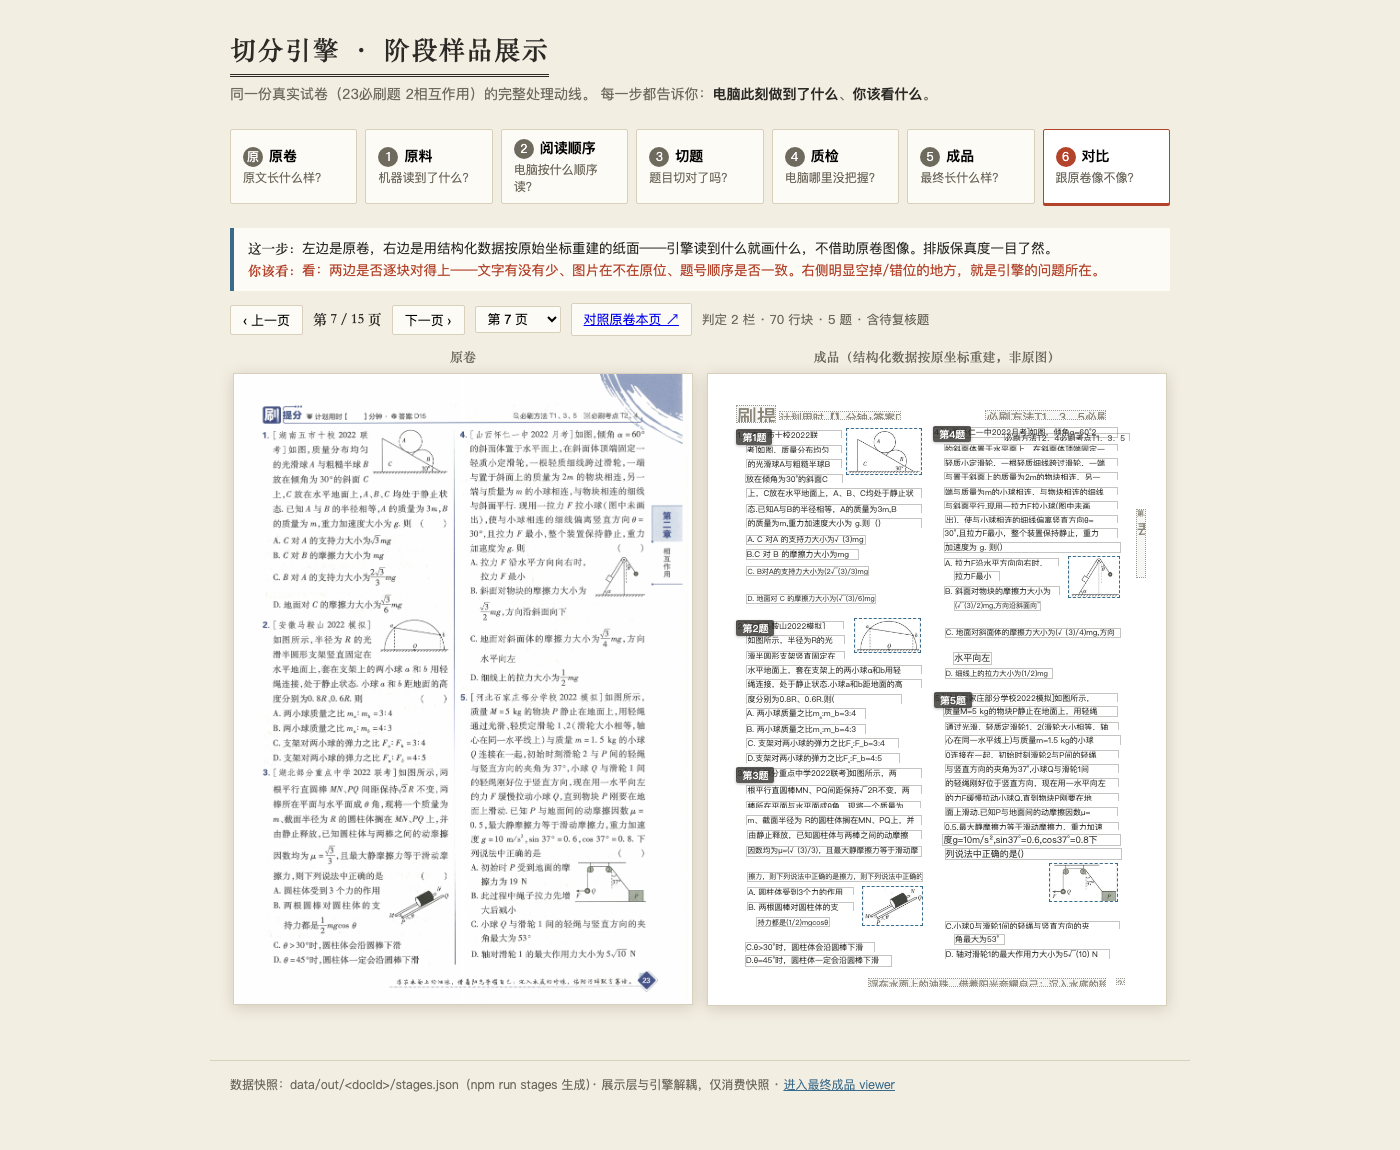
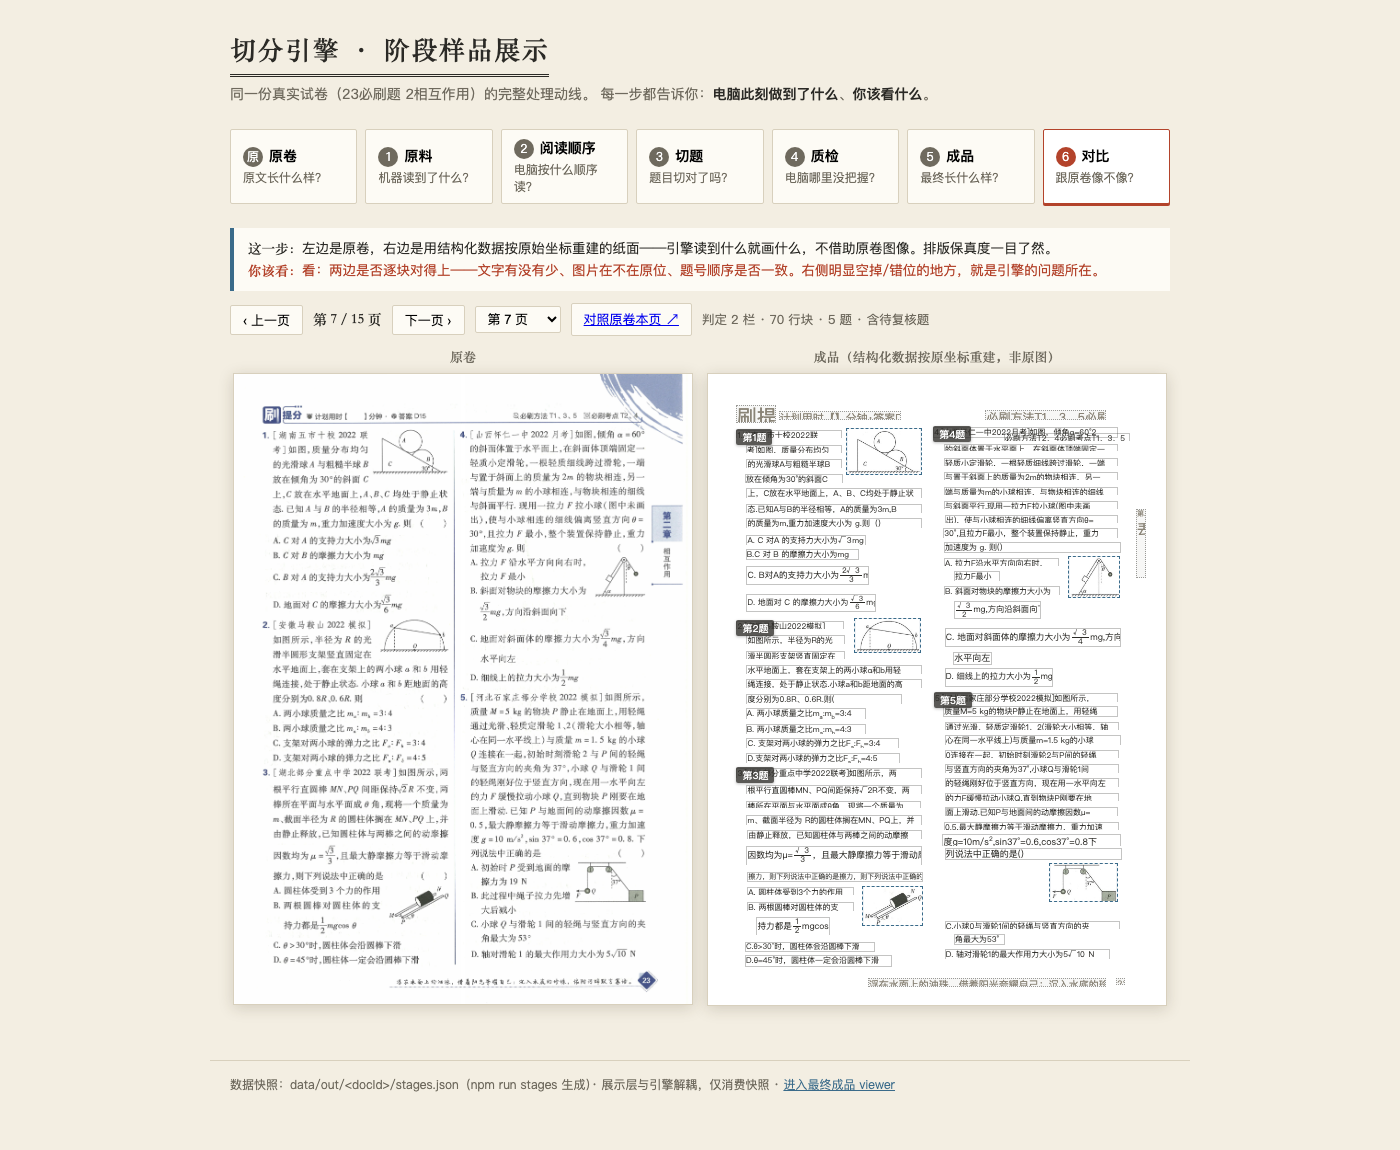
feat: 渲染输出改为 HTML 结构——\frac 竖排分式 / \sqrt 根号 / 上下标 <sup><sub>
用户指出"公式怎么都是一排的"。根因是渲染方式：此前是**纯文本 Unicode 替换**，
而 Unicode 没有"上下叠放"这种结构，\frac 只能降级成 (√(3)/2) —— 一维字符流
表达不了原卷的二维数学排版。

- latex-display.js 输出改为 HTML 片段：\frac → <span class="frac">（分子/分母上下
  叠放 + 中间横线）、\sqrt → <span class="sqrt">（带上划线）、^/_ → <sup>/<sub>
- 新增 escapeHtml：字面文本转义，避免 < > & 破坏结构（物理卷里 θ<90° 很常见）
- 公式内空白改为在 desugar 内部跳过（HTML 阶段折叠会破坏标签属性里的空格）
- stages.js 挂载方式 textContent → innerHTML（4 处）；字号估算前先 stripTags
- stages.css 新增 .frac / .sqrt / .rad / sup / sub 样式
- separateOptionMarks 移到渲染**之后**：desugar 会吃掉公式内空白（含选项之间的
  分隔空格），放在渲染前会让相邻选项重新粘连（实测 p3 raw[10] 回归）
- 测试 91/91（期望值改为 HTML，新增 HTML 转义用例）；审计 8 项归零
- 15 页对比截图 + 阶段 1 截图重拍核对

diff --git a/stages/latex-display.js b/stages/latex-display.js
@@ -1,5 +1,5 @@
 /**
- * latex-display.js —— 展示层专用 LaTeX→Unicode 轻量渲染（纯函数，无 DOM）。
+ * latex-display.js —— 展示层专用 LaTeX 渲染（纯函数，无 DOM）。
  *
  * 定位：引擎结构化文本保留上游 LaTeX 原样（红线：不静默改写数据）；
  * 但展示时 "$\theta \left( \theta < 9 0 ^ { \circ } \right)$" 这类源码不可读。
@@ -7,6 +7,12 @@
  * （\frac/\sqrt 嵌套参数、^/_ 嵌套上下标、{ } 分组、希腊字母/关系符表、
  * \left\right 与字体包装剥除、空白噪声折叠），语义改写（清洗数据本身）
  * 是引擎侧独立任务，不在此处。
+ *
+ * 输出是 **HTML 片段**（不是纯文本）：\frac 渲染成竖排分式、\sqrt 渲染成带上划线的
+ * 根号、上下标用 <sup>/<sub>。原卷是二维排版，一维字符流表达不了它
+ * （2026-10-08 用户指出"怎么都是一排的"）。⇒ 调用方必须用 **innerHTML** 挂载，
+ * 不能用 textContent；所有字面文本都经 escapeHtml，避免 < > & 破坏结构。
+ *
  * 供 stages.js 使用；tests/latex-display.test.ts 回归锁定
  * （测试用例全部取自真实样张噪声公式）。
  */
@@ -80,20 +86,9 @@ export const KNOWN_COMMANDS = new Set([
  */
 export const STRUCTURAL_COMMANDS = new Set([...DROP_CMD, ...DROP_WITH_ARG]);
 
-const SUP = {
-  "0": "⁰", "1": "¹", "2": "²", "3": "³", "4": "⁴",
-  "5": "⁵", "6": "⁶", "7": "⁷", "8": "⁸", "9": "⁹",
-  "+": "⁺", "-": "⁻", "−": "⁻", "n": "ⁿ", "i": "ⁱ",
-};
-
-const SUB = {
-  "0": "₀", "1": "₁", "2": "₂", "3": "₃", "4": "₄",
-  "5": "₅", "6": "₆", "7": "₇", "8": "₈", "9": "₉",
-  "+": "₊", "-": "₋", "a": "ₐ", "e": "ₑ", "o": "ₒ", "x": "ₓ",
-};
-
-const allMapped = (str, table) => [...str].every((ch) => ch in table);
-const mapAll = (str, table) => [...str].map((ch) => table[ch] ?? ch).join("");
+/** HTML 转义：输出片段由调用方 innerHTML 挂载，字面文本必须转义。 */
+const escapeHtml = (s) =>
+  s.replace(/[&<>]/g, (c) => (c === "&" ? "&amp;" : c === "<" ? "&lt;" : "&gt;"));
 
 const isSpace = (ch) => ch === " " || ch === "\t" || ch === "\n" || ch === "\r";
 
@@ -162,32 +157,33 @@ function parseCommand(s, i) {
 }
 
 /**
- * 递归渲染：{ } 分组不显示；\frac/\sqrt 嵌套解析；^/_ 上下标
- * （内容可映射时用 Unicode 上下标，否则保留 ^()/_() 形态）。
- * 空白不在此处折叠——由调用方决定（公式内折叠、段外保留）。
+ * 递归渲染成 HTML 片段。
+ * - { } 分组不显示；\frac → 竖排分式；\sqrt → 带上划线的根号；^/_ → <sup>/<sub>
+ * - 空白在公式内无语义，**一律跳过**（在 HTML 阶段折叠会破坏标签属性里的空格）
+ * - 字面字符逐个 escapeHtml
  */
 function desugar(s) {
   let out = "";
   let i = 0;
   while (i < s.length) {
     const ch = s[i];
+    if (isSpace(ch)) { i++; continue; } // 公式内空白无语义
     if (ch === "\\") {
       const cmd = parseCommand(s, i);
       const { name } = cmd;
       if (name === " ") {
-        out += " ";
         i = cmd.end;
         // 真实数据常见 "\ :" —— 空格命令后吞掉多余空格与标点短命令
         while (i < s.length && isSpace(s[i])) i++;
         if ([",", ";", ":", "!"].includes(s[i] ?? "")) i++;
         continue;
       }
-      if ([",", ";", ":", "!"].includes(name)) { out += " "; i = cmd.end; continue; }
+      if ([",", ";", ":", "!"].includes(name)) { i = cmd.end; continue; }
       if (name === "frac" || name === "dfrac" || name === "tfrac") {
         const a = parseArg(s, cmd.end);
         const b = a ? parseArg(s, a.end) : null;
         if (a && b) {
-          out += `(${desugar(a.text)}/${desugar(b.text)})`;
+          out += `<span class="frac"><span class="fn">${desugar(a.text)}</span><span class="fd">${desugar(b.text)}</span></span>`;
           i = b.end;
           continue;
         }
@@ -198,7 +194,7 @@ function desugar(s) {
       }
       if (name === "sqrt") {
         const a = parseArg(s, cmd.end);
-        if (a) { out += `√(${desugar(a.text)})`; i = a.end; continue; }
+        if (a) { out += `<span class="sqrt">√<span class="rad">${desugar(a.text)}</span></span>`; i = a.end; continue; }
       }
       if (UNWRAP.has(name)) {
         const a = parseArg(s, cmd.end);
@@ -214,7 +210,7 @@ function desugar(s) {
         continue;
       }
       // 未知命令：丢弃命令名本身，保留其参数内容——宁可少显示一处排版命令，
-      // 也绝不让 "\varepsilon" 这类命令名裸奔给用户看（旧实现的兜底就是裸名字）。
+      // 也绝不让 "\varepsilon" 这类命令名裸奔给用户看。
       i = cmd.end;
       continue;
     }
@@ -222,33 +218,24 @@ function desugar(s) {
       const a = parseArg(s, i + 1);
       if (a) {
         const inner = desugar(a.text).trim();
-        if (inner === "°") { out += "°"; i = a.end; continue; } // ^ { \circ } 特例
+        // ^ { \circ } → 度数符号直出（原卷就是 °，不是上标圆圈）
+        if (ch === "^" && inner === "°") { out += "°"; i = a.end; continue; }
         // MinerU 把上标数字 2 误认成正体冒号：原卷第 4 页第 1 题实为 Fsin²θ，
-        // 数据里却是 F \mathrm { s i n } ^ { \mathrm { : } } \theta → 还原为 ²。
+        // 数据里却是 F \mathrm { s i n } ^ { \mathrm { : } } \theta → 还原为 2。
         // ⚠ 曾把这类「纯标点上标」整体丢弃，导致平方消失（静默内容丢失）。
         // 纠正原则：宁可还原一个高概率候选，也不静默丢掉信息。
-        if (ch === "^" && inner === ":") { out += "²"; i = a.end; continue; }
-        const table = ch === "^" ? SUP : SUB;
-        if (allMapped(inner, table)) {
-          out += mapAll(inner, table);
-        } else if (inner.length > 0 && inner.length <= 2 && !/[A-Za-z0-9]/.test(inner)) {
-          // 其余符号型上/下标（′ ∘ ∗ 等）直出；去掉包裹括号，其余字符**保留可见**
-          // ——不静默丢弃（丢了用户就再也看不到"这里原本有个上标"）
-          out += inner.replace(/[()\[\]{}]/g, "");
-        } else if (ch === "^") {
-          out += `^(${inner})`;
-        } else {
-          out += `_${inner.replace(/_/g, "")}`; // 嵌套下标（F_{_{Na}}）不再叠出双下划线
-        }
+        if (ch === "^" && inner === ":") { out += "<sup>2</sup>"; i = a.end; continue; }
+        const tag = ch === "^" ? "sup" : "sub";
+        if (inner) out += `<${tag}>${inner}</${tag}>`;
         i = a.end;
         continue;
       }
-      out += ch;
+      out += escapeHtml(ch);
       i++;
       continue;
     }
     if (ch === "{" || ch === "}") { i++; continue; } // 分组括号本身不显示
-    out += ch;
+    out += escapeHtml(ch);
     i++;
   }
   return out;
@@ -270,6 +257,10 @@ const LOOKS_LATEX = /\\[A-Za-z]+|[A-Za-z0-9]\s*[_^]/;
  * 分隔用 EM SPACE（U+2003）而非普通空格：原卷的 A/B 是分列排版、间距约等于选项
  * 文本宽度（第 2 页第 10 题原卷 300dpi 裁剪实测），普通空格视觉上仍"靠得近"；
  * 且 HTML 会把连续普通空格折叠成一个。
+ *
+ * ⚠ 必须在**渲染成 HTML 之后**调用：desugar 会吃掉公式内空白（含选项之间的分隔
+ * 空格，"方向 D." → "方向D."），若在渲染前做，那些被吃掉的空格会让相邻选项又粘在一起
+ * （2026-10-08 实测 p3 raw[10] 回归）。放在最后则天然避开该问题。
  */
 export function separateOptionMarks(text) {
   const marks = text.match(/[A-D][.．]/g);
@@ -277,44 +268,36 @@ export function separateOptionMarks(text) {
   return text.replace(/([^\s])(?=[A-D][.．])/g, "$1\u2003");
 }
 
-/** 收尾统一整理：选项分隔 + LaTeX 不换行空格 "~" 还原为普通空格（10~kg → 10 kg）。
- * 必须放在公式内空白折叠之后，否则 "~" 会被折叠掉导致数值与单位粘连。
+/**
+ * 展示用美化（返回 HTML 片段）：
+ * - 先在纯文本上做选项标记分隔；
+ * - $...$ 段内按 LaTeX 子集渲染成 HTML；段外文本原样保留（仅转义）；
+ * - 无 $ 但含 LaTeX 的整块（裸公式块）也按公式渲染；
+ * - 不成对的 $ 视为噪声字符去掉（避免源码漏出）；
+ * - LaTeX 不换行空格 "~" 还原为普通空格（10~kg → 10 kg）。
  *
  * ⚠ 不要动段外文本的空格：原卷的数学排版本身就有空格（原卷第 4 页第 1 题实测
  * "B. F sin θcos θ" 带空格）。2026-10-08 曾加过「收紧数学符号间空格」，
- * 回原卷核对后发现与原卷不符，已回滚——**没有回原卷核对过的"美化"不要做**。 */
-function finalize(text) {
-  return separateOptionMarks(text).replace(/~/g, " ");
-}
-
-/**
- * 展示用美化：$...$ 段内按 LaTeX 子集渲染并折叠空白（LaTeX 内空格无语义）；
- * 段外文本原样保留；无 $ 但含 LaTeX 的整块（裸公式块）也按公式渲染；
- * 不成对的 $ 视为噪声字符直接去掉（避免源码漏出）；
- * 末了统一做选项标记分隔（粘连可读性）。
+ * 回原卷核对后发现与原卷不符，已回滚——**没有回原卷核对过的"美化"不要做**。
  */
 export function prettifyLatex(text) {
   if (!text) return text;
-  if (!text.includes("$")) {
-    const shown = LOOKS_LATEX.test(text) ? desugar(text).replace(/\s+/g, "") : text;
-    return finalize(shown);
-  }
   let out = "";
-  let i = 0;
-  let inFormula = false;
-  while (i < text.length) {
-    const ch = text[i];
-    if (ch === "$") { inFormula = !inFormula; i++; continue; }
-    let j = text.indexOf("$", i);
-    if (j === -1) j = text.length;
-    if (inFormula) {
-      out += desugar(text.slice(i, j)).replace(/\s+/g, "");
-    } else {
-      out += text.slice(i, j); // 段外原样
+  if (!text.includes("$")) {
+    out = LOOKS_LATEX.test(text) ? desugar(text) : escapeHtml(text);
+  } else {
+    let i = 0;
+    let inFormula = false;
+    while (i < text.length) {
+      const ch = text[i];
+      if (ch === "$") { inFormula = !inFormula; i++; continue; }
+      let j = text.indexOf("$", i);
+      if (j === -1) j = text.length;
+      out += inFormula ? desugar(text.slice(i, j)) : escapeHtml(text.slice(i, j));
+      i = j;
     }
-    i = j;
   }
-  return finalize(out);
+  return separateOptionMarks(out.replace(/~/g, " "));
 }
 
 /**

diff --git a/stages/stages.js b/stages/stages.js
@@ -216,6 +216,9 @@ function lineFont(hPx) {
 /* 字号同时适配框宽与框高：CJK 记 1em、其他记 0.55em 估宽，
  * 超宽则缩字号——「出现的东西大小要匹配」，避免文字溢出边框的别扭感 */
 const CJK_RE = /[\u2E80-\u9FFF\uF900-\uFFFD\u3000-\u303F\uFF00-\uFFEF]/;
+/** 剥掉 HTML 标签：prettifyLatex 返回 HTML 片段（分式/根号需要二维结构），
+ * 按纯文本估算字号时不能把标签字符算进宽度。 */
+const stripTags = (html) => html.replace(/<[^>]*>/g, "");
 function fitFontSize(text, boxWpx, boxHpx) {
   const hFit = lineFont(boxHpx);
   let ems = 0;
@@ -234,10 +237,13 @@ function blockNode(b, p, canvasW = CANVAS_W) {
     img.alt = "图片块";
     node.append(img);
   } else {
-    const txt = el("span", "txt", prettifyLatex(b.text));
+    // prettifyLatex 返回 HTML 片段（\frac 竖排分式 / \sqrt 带上划线根号），必须 innerHTML
+    const html = prettifyLatex(b.text);
+    const txt = el("span", "txt");
+    txt.innerHTML = html;
     const boxW = ((b.bbox[2] - b.bbox[0]) / p.width) * canvasW;
     const boxH = ((b.bbox[3] - b.bbox[1]) / p.width) * canvasW;
-    txt.style.fontSize = `${fitFontSize(prettifyLatex(b.text), boxW, boxH)}px`;
+    txt.style.fontSize = `${fitFontSize(stripTags(html), boxW, boxH)}px`;
     node.append(txt);
   }
   return node;
@@ -269,10 +275,12 @@ function renderRaw(p) {
     const node = posStyle(el("div", `blk blk-raw type-${b.type}`), b.bbox, p.width, p.height);
     const shown = prettifyLatex(b.text);
     node.title = `[${TYPE_LABEL_CN(b.type)}] ${b.text}`;
-    const txt = el("span", "txt", shown || `(${TYPE_LABEL_CN(b.type)})`);
+    const txt = el("span", "txt");
+    if (shown) txt.innerHTML = shown;
+    else txt.textContent = `(${TYPE_LABEL_CN(b.type)})`;
     const boxW = ((b.bbox[2] - b.bbox[0]) / p.width) * CANVAS_W;
     const boxH = ((b.bbox[3] - b.bbox[1]) / p.width) * CANVAS_W;
-    txt.style.fontSize = `${fitFontSize(shown, boxW, boxH * 0.9)}px`;
+    txt.style.fontSize = `${fitFontSize(stripTags(shown) || `(${TYPE_LABEL_CN(b.type)})`, boxW, boxH * 0.9)}px`;
     node.append(txt, el("span", "tag", TYPE_LABEL_CN(b.type)));
     c.append(node);
   }
@@ -290,10 +298,11 @@ function renderDiscardedInto(c, p) {
     const shown = prettifyLatex(b.text);
     node.title = `[已被解析器丢弃·${DISCARDED_LABEL[b.dtype] ?? b.dtype}] ${b.text}`;
     if (shown) {
-      const txt = el("span", "txt", shown);
+      const txt = el("span", "txt");
+      txt.innerHTML = shown;
       const boxW = ((b.bbox[2] - b.bbox[0]) / p.width) * CANVAS_W;
       const boxH = ((b.bbox[3] - b.bbox[1]) / p.width) * CANVAS_W;
-      txt.style.fontSize = `${fitFontSize(shown, boxW, boxH)}px`;
+      txt.style.fontSize = `${fitFontSize(stripTags(shown), boxW, boxH)}px`;
       node.append(txt);
     }
     node.append(el("span", "tag", `丢弃·${DISCARDED_LABEL[b.dtype] ?? b.dtype}`));
@@ -380,7 +389,9 @@ function showDetail(q, p) {
     d.append(el("p", "reason", `电脑给出的原因：${q.reasons.join("；")}`));
   }
   const texts = q.blocks.map((i) => p.blocks[i]?.text).filter(Boolean);
-  d.append(el("p", "kv", `本页内容预览：${prettifyLatex(texts.join(" / ").slice(0, 200)) || "（无文本）"}`));
+  const preview = el("p", "kv");
+  preview.innerHTML = `本页内容预览：${prettifyLatex(texts.join(" / ").slice(0, 200)) || "（无文本）"}`;
+  d.append(preview);
   d.scrollIntoView({ behavior: "smooth", block: "nearest" });
 }
 

diff --git a/stages/stages.css b/stages/stages.css
@@ -389,3 +389,33 @@ main { max-width: 980px; margin: 0 auto; padding: 12px 20px 40px; }
   color: var(--ink-soft);
   font-family: var(--serif);
 }
+
+/* ── 公式的二维结构 ──────────────────────────────────────────────
+   prettifyLatex 输出 HTML 片段（见 latex-display.js）：原卷的数学排版是二维的
+   —— 分式上下叠放、根号带上划线 —— 纯文本字符流表达不了。
+   字号用 em，自动跟随 fitFontSize 给 .txt 设的字号。 */
+.blk .frac {
+  display: inline-block;
+  vertical-align: middle;
+  text-align: center;
+  font-size: 0.9em;
+  margin: 0 0.15em;
+  line-height: 1.05;
+}
+.blk .frac .fn {
+  display: block;
+  border-bottom: 1px solid currentColor;
+  padding: 0 0.2em;
+}
+.blk .frac .fd {
+  display: block;
+  padding: 0 0.2em;
+}
+.blk .sqrt .rad {
+  border-top: 1px solid currentColor;
+  padding: 0 0.1em;
+}
+.blk .txt sup,
+.blk .txt sub {
+  font-size: 0.7em;
+}
